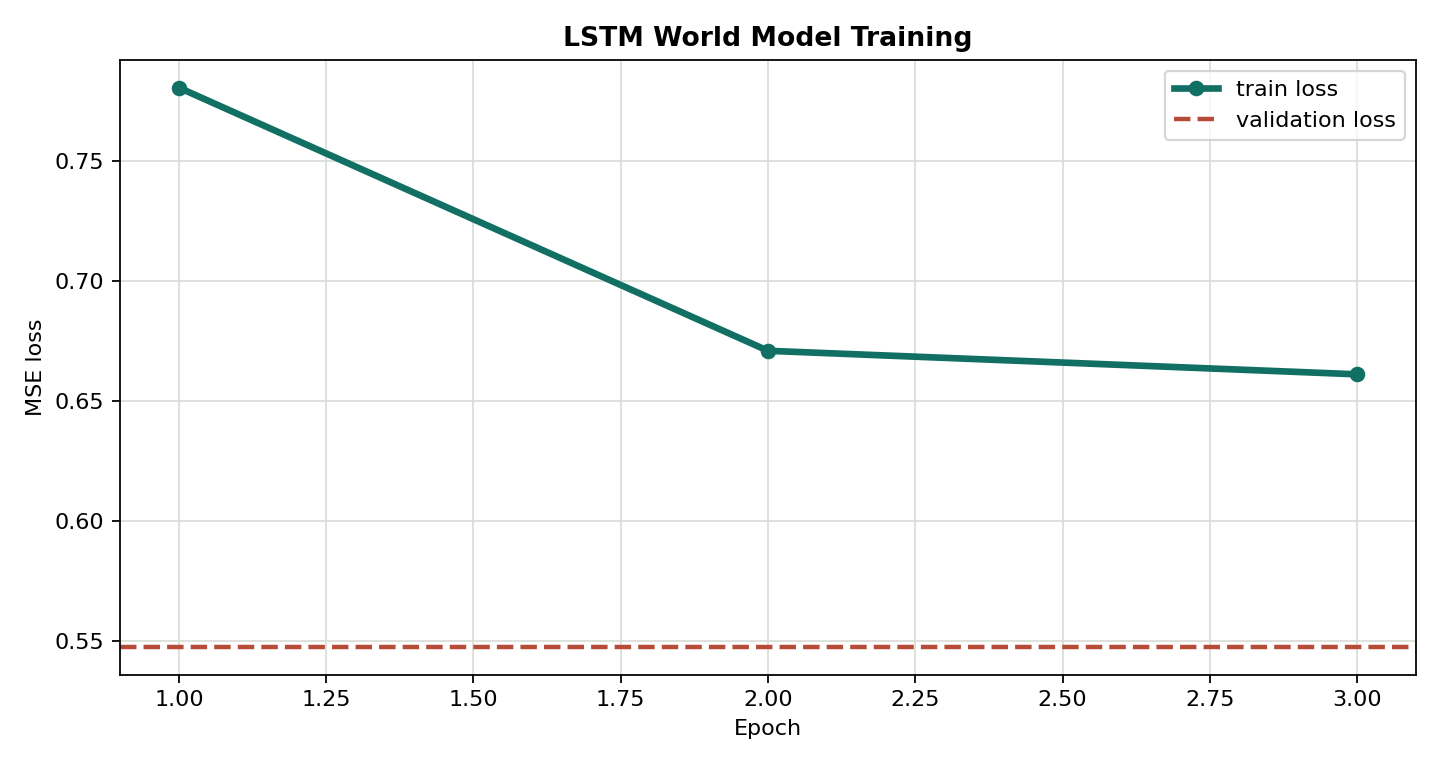
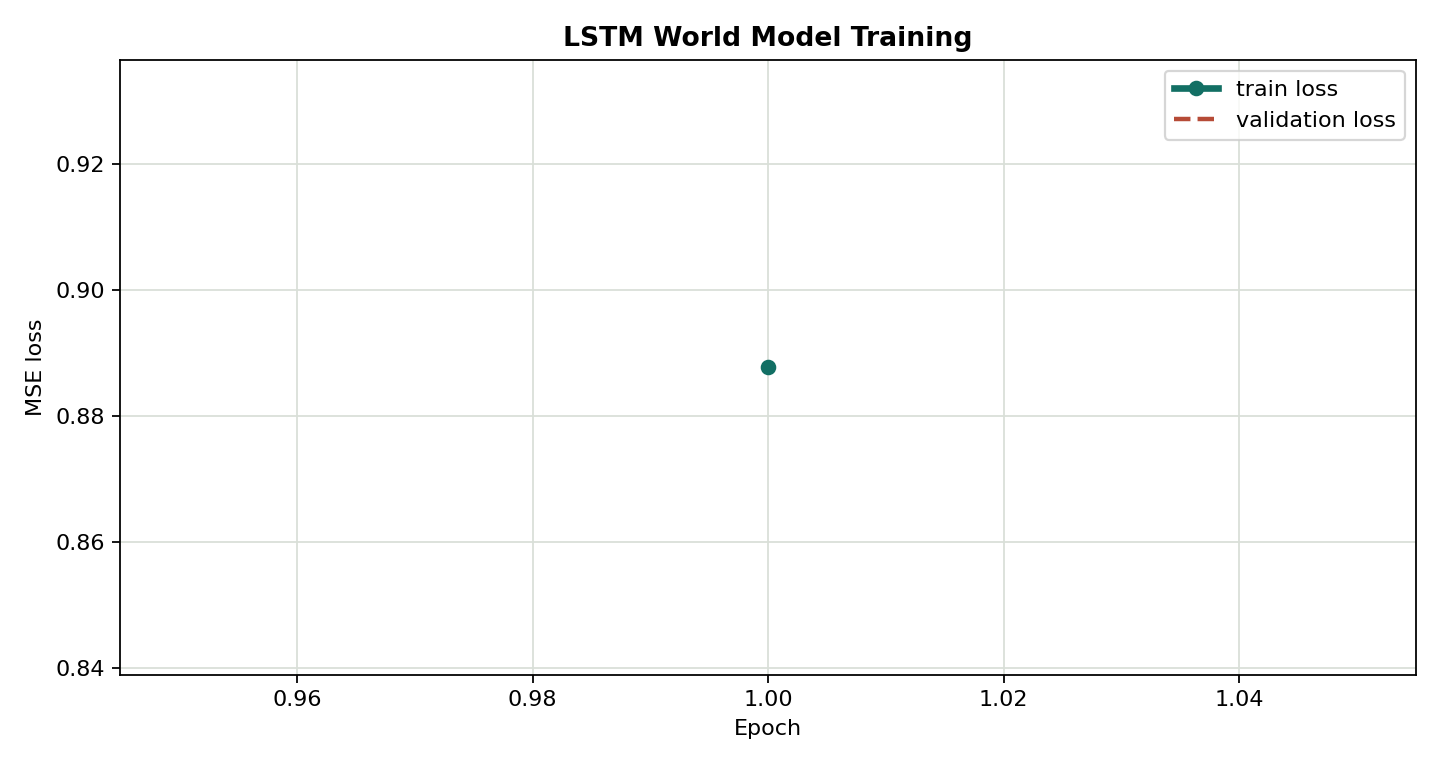
Complete assessment checkpoint evidence

diff --git a/src/rl_gym_training/sdk/sdk.py b/src/rl_gym_training/sdk/sdk.py
@@ -7,6 +7,7 @@ from dataclasses import asdict, dataclass
 from pathlib import Path
 
 import numpy as np
+import torch
 
 from rl_gym_training.data.data_loader import N_ACTIONS, load_workout_data
 from rl_gym_training.data.dataset import WorkoutSequenceDataset
@@ -93,7 +94,22 @@ class RLGymTrainingSDK:
         policy = PolicyNetwork(len(self.config.data.state_columns), N_ACTIONS)
         metrics = run_reinforce_training(policy, env, self.config)
         evaluation = evaluate_policy(policy, env, episodes=2)
-        output = {"training": asdict(metrics), "evaluation": asdict(evaluation)}
+        checkpoint = resolve_path("results/reinforce_policy.pt")
+        checkpoint.parent.mkdir(parents=True, exist_ok=True)
+        torch.save(
+            {
+                "state_dict": policy.state_dict(),
+                "state_size": len(self.config.data.state_columns),
+                "action_size": N_ACTIONS,
+                "config": asdict(self.config),
+            },
+            checkpoint,
+        )
+        output = {
+            "training": asdict(metrics),
+            "evaluation": asdict(evaluation),
+            "checkpoint_path": str(checkpoint),
+        }
         self._write_json("results/reinforce_metrics.json", output)
         return output
 
@@ -102,7 +118,32 @@ class RLGymTrainingSDK:
         model = ActorCritic(len(self.config.data.state_columns), N_ACTIONS)
         metrics = run_a2c_training(model, env, self.config)
         evaluation = evaluate_policy(model.actor, env, episodes=2)
-        output = {"training": asdict(metrics), "evaluation": asdict(evaluation)}
+        actor_checkpoint = resolve_path("results/a2c_actor.pt")
+        critic_checkpoint = resolve_path("results/a2c_critic.pt")
+        actor_checkpoint.parent.mkdir(parents=True, exist_ok=True)
+        torch.save(
+            {
+                "state_dict": model.actor.state_dict(),
+                "state_size": len(self.config.data.state_columns),
+                "action_size": N_ACTIONS,
+                "config": asdict(self.config),
+            },
+            actor_checkpoint,
+        )
+        torch.save(
+            {
+                "state_dict": model.critic.state_dict(),
+                "state_size": len(self.config.data.state_columns),
+                "config": asdict(self.config),
+            },
+            critic_checkpoint,
+        )
+        output = {
+            "training": asdict(metrics),
+            "evaluation": asdict(evaluation),
+            "actor_checkpoint_path": str(actor_checkpoint),
+            "critic_checkpoint_path": str(critic_checkpoint),
+        }
         self._write_json("results/a2c_metrics.json", output)
         return output
 

diff --git a/docs/EXPERIMENTS.md b/docs/EXPERIMENTS.md
@@ -40,15 +40,21 @@ Result from local PMData run:
 | A2C action distribution | rest 28, mixed 28 |
 | REINFORCE action distribution | rest 14, mixed 42 |
 
-Interpretation: the software pipeline executes end to end and the learned policies can be compared against a random masked policy. A2C performed best in this very small synthetic run, which is plausible because the critic supplies lower-variance TD feedback.
+Interpretation: the software pipeline executes end to end on PMData-derived workout sequences and the learned policies can be compared against a random masked policy. REINFORCE achieved the highest return in this compact CPU run, while A2C still beat the random masked baseline and produced zero safety violations.
 
 Limitation: PMData is real, but the RL environment remains an educational learned simulator and not a medical recommendation engine.
 
-## Planned Comparisons
+## Additional Comparison Checklist
 
-- REINFORCE vs A2C: compare average return and safety violations.
-- REINFORCE with vs without return normalization: compare return variance.
-- Gamma values `0.85`, `0.95`, `0.99`: compare short- vs long-horizon behavior.
-- Episode lengths `14`, `28`, `42`: compare stability and safety.
-- LSTM prediction performance: validation MSE/MAE and predicted-vs-actual plots.
-- Random policy baseline vs learned policy: compare return and action distribution.
+The required baseline comparison was run locally and reported above. These extra ablations are ready to run by editing `config/setup.yaml`, rerunning the listed command, and copying the resulting metrics from `results/`:
+
+| Comparison | Exact command | Output |
+|---|---|---|
+| REINFORCE vs A2C | `uv run rl-gym-training train-reinforce`; `uv run rl-gym-training train-a2c` | `results/reinforce_metrics.json`, `results/a2c_metrics.json` |
+| REINFORCE with/without return normalization | set `rl.normalize_returns` to `true`/`false`, then `uv run rl-gym-training train-reinforce` | `results/reinforce_metrics.json` |
+| Gamma `0.85`, `0.95`, `0.99` | set `rl.gamma`, then run both policy commands | policy metric JSON files |
+| Episode lengths `14`, `28`, `42` | set `rl.episode_length`, then run both policy commands | policy metric JSON files |
+| LSTM prediction performance | `uv run rl-gym-training train-lstm` | `results/world_model_metrics.json`, `assets/lstm_training_curve.png` |
+| Random policy baseline | `uv run rl-gym-training evaluate-random` | `results/random_policy_metrics.json` |
+
+For submission, the committed README images show the PMData pipeline, LSTM curve, learned-vs-random policy comparison, and action distribution. Regenerate them with `uv run python scripts/generate_readme_assets.py` after any new experiment.

diff --git a/README.md b/README.md
@@ -92,6 +92,9 @@ All important hyperparameters live in `config/setup.yaml`: data path, split rati
 
 - `data/processed/train.csv`, `validation.csv`, `test.csv`
 - `results/lstm_world_model.pt`
+- `results/reinforce_policy.pt`
+- `results/a2c_actor.pt`
+- `results/a2c_critic.pt`
 - `results/reinforce_metrics.json`
 - `results/a2c_metrics.json`
 - `results/random_policy_metrics.json`
@@ -106,7 +109,7 @@ Demo LSTM world-model training curve:
 
 ![LSTM training curve](assets/lstm_training_curve.png)
 
-Synthetic fallback policy comparison:
+PMData policy comparison:
 
 ![Policy comparison](assets/policy_comparison.png)
 

diff --git a/docs/ASSESSMENT_COVERAGE.md b/docs/ASSESSMENT_COVERAGE.md
@@ -13,6 +13,7 @@ This matrix maps the Exercise 3 requirements to concrete repository evidence.
 | Separate LSTM world model | `src/rl_gym_training/models/lstm_world_model.py`, `docs/PRD_lstm_world_model.md` | PASS |
 | REINFORCE policy-gradient implementation | `src/rl_gym_training/rl/reinforce.py`, `docs/PRD_reinforce.md`, tests | PASS |
 | A2C Actor-Critic implementation | `src/rl_gym_training/rl/a2c.py`, `docs/PRD_a2c.md`, tests | PASS |
+| LSTM, REINFORCE, actor, and critic checkpoints | `results/lstm_world_model.pt`, `results/reinforce_policy.pt`, `results/a2c_actor.pt`, `results/a2c_critic.pt` generated by CLI | PASS |
 | Configurable reward function | `src/rl_gym_training/rl/reward.py`, `config/setup.yaml`, `docs/PRD_reward_function.md` | PASS |
 | Action masking and safety constraints | `src/rl_gym_training/rl/action_masking.py`, tests | PASS |
 | Evaluation metrics and comparison to random baseline | `src/rl_gym_training/services/evaluation_service.py`, `docs/EXPERIMENTS.md`, `assets/` | PASS |
@@ -21,4 +22,4 @@ This matrix maps the Exercise 3 requirements to concrete repository evidence.
 | AI workflow and cost/resource awareness | `docs/AI_WORKFLOW.md`, `docs/COST_ANALYSIS.md` | PASS |
 | Version/history evidence | `docs/VERSION_HISTORY.md`, git commits | PASS |
 
-Manual review still required: replace synthetic fallback with the intended Kaggle dataset if the lecturer requires real-data evidence, then rerun the experiment commands and regenerate README assets.
+Manual note: raw PMData files and generated checkpoints/metrics are intentionally ignored by git. Recreate them with the README commands before grading or demonstration.